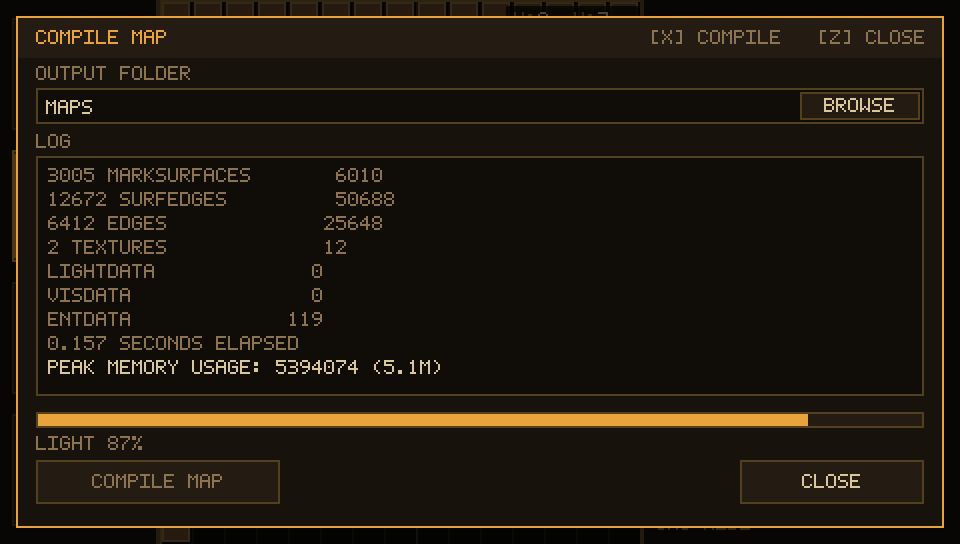
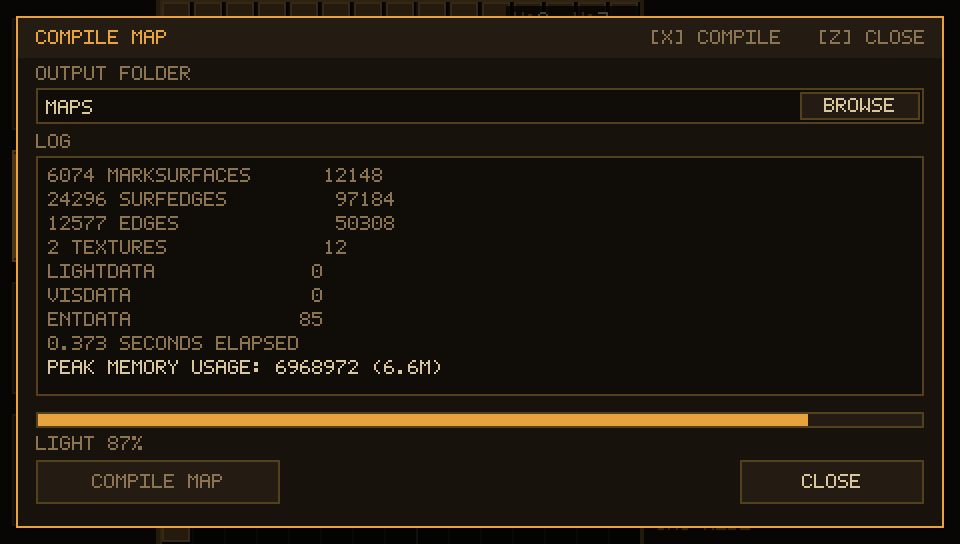
Worldspawn minlight instead of a spawned light, and a clean MSVC build
Default lighting now comes from a "light" key on worldspawn (200, written by
the exporter) instead of an invented light entity, so the light tool picks it
up as minlight and the map is never black. The exporter only reports light
entities the user actually placed.

Visual Studio 2022 build fixes (all fatal errors in the pasted log):
- qbsp.h Error() uses TYR_PRINTF_ATTR/TYR_NORETURN_ATTR, and min()/max()
  (plus qmin/qmax in common/cmdlib.h) fall back to plain macros for MSVC
  instead of typeof/statement expressions
- TYR_NOINLINE replaces the bare __attribute__((noinline)) in ltface.c (4x)
  and outside.c; ffsl gets a _BitScanForward shim; NOMINMAX before windows.h
- strcasecmp/strncasecmp map to _stricmp/_strnicmp, strupr/strlower stay out
  of the MSVC build, CopyLump initialises lumpspec (C4703 under /sdl)
- _CRT_NONSTDC_NO_WARNINGS for unlink, per-directory ObjectFileName for the
  three duplicate basenames (MSB8027)

light now sizes its lightdata lump from the faces (FaceLightmapSamples) and
skips the .lit area unless asked, instead of reserving 4 x MAX_MAP_LIGHTING;
also fixes an undersized RLE buffer in vis LeafFlow.

diff --git a/KablukMapperPortable/compile.c b/KablukMapperPortable/compile.c
@@ -225,10 +225,18 @@ static int next_run(const Grid *grid, CompileJob *job, int *x0, int *x1,
     while (job->cur_row < MAP_ROWS) {
         int y = job->cur_row;
         int x = job->cur_col;
+        const unsigned char *row;
         int start;
         int t;
 
-        while (x < MAP_COLS && grid->solid[y][x] == CELL_EMPTY) {
+        if (y < 0 || y >= MAP_ROWS) {
+            return 0;
+        }
+        row = grid->solid[y];
+        if (x < 0 || x > MAP_COLS) {
+            x = MAP_COLS;
+        }
+        while (x < MAP_COLS && row[x] == CELL_EMPTY) {
             x++;
         }
         if (x >= MAP_COLS) {
@@ -238,7 +246,7 @@ static int next_run(const Grid *grid, CompileJob *job, int *x0, int *x1,
         }
         start = x;
         t = cell_texture(grid, x, y);
-        while (x + 1 < MAP_COLS && grid->solid[y][x + 1] != CELL_EMPTY &&
+        while (x + 1 < MAP_COLS && row[x + 1] != CELL_EMPTY &&
                cell_texture(grid, x + 1, y) == t) {
             x++;
         }
@@ -487,6 +495,18 @@ void compile_step(CompileJob *job, const Grid *grid, const Fgd *fgd,
             write_text(job, "\"\n");
         }
         write_text(job, "\"message\" \"Kabluk map\"\n");
+        /* worldspawn "light" is the map-wide minimum light (minlight in the
+         * light tool), so a map is never black even without light entities */
+        len = 0;
+        len = cat_str(buf, len, "\"light\" \"");
+        len = cat_int(buf, len, DEFAULT_MINLIGHT);
+        cat_str(buf, len, "\"\n");
+        write_text(job, buf);
+        len = 0;
+        len = cat_str(buf, len, "WORLDSPAWN LIGHT: ");
+        len = cat_int(buf, len, DEFAULT_MINLIGHT);
+        cat_str(buf, len, " (MINLIGHT)");
+        compile_log_add(job, buf);
 
         /* floor and ceiling slabs covering the whole map */
         write_box(job, 0, 0, -SLAB_THICKNESS, MAP_COLS * BLOCK_UNITS,
@@ -569,23 +589,12 @@ void compile_step(CompileJob *job, const Grid *grid, const Fgd *fgd,
                 written++;
             }
         }
-        /* light needs at least one light source, otherwise the map is black */
-        if (job->light_entities == 0) {
-            if (written > 0) {
-                len = 0;
-                len = cat_str(buf, len, "// entity ");
-                len = cat_int(buf, len, written + 1);
-                cat_str(buf, len, "\n{\n\"classname\" \"light\"\n");
-            } else {
-                len = 0;
-                len = cat_str(buf, len, "\n// entity 1\n{\n\"classname\" \"light\"\n");
-            }
-            write_text(job, buf);
-            sprintf(buf, "\"origin\" \"%d %d 64\"\n}\n",
-                    MAP_COLS * BLOCK_UNITS / 2, MAP_ROWS * BLOCK_UNITS / 2);
-            write_text(job, buf);
-            written++;
-            compile_log_add(job, "NO LIGHT ENTITY: ADDED A DEFAULT LIGHT");
+        if (job->light_entities > 0) {
+            len = 0;
+            len = cat_str(buf, len, "LIGHT ENTITIES: ");
+            len = cat_int(buf, len, job->light_entities);
+            cat_str(buf, len, " (ON TOP OF MINLIGHT)");
+            compile_log_add(job, buf);
         }
 
         job->entity_done = written;

diff --git a/KablukMapperPortable/compile.h b/KablukMapperPortable/compile.h
@@ -28,6 +28,9 @@
 #define COMPILE_LOG_LINES 80
 #define COMPILE_LOG_LEN 80
 
+/* map-wide minimum light written into worldspawn ("light" key, minlight) */
+#define DEFAULT_MINLIGHT 200
+
 #define COMPILE_IDLE 0
 #define COMPILE_RUNNING 1
 #define COMPILE_DONE 2

diff --git a/docs/compile-chain.md b/docs/compile-chain.md
@@ -29,7 +29,7 @@ over to `bspchain.c`, which calls one tool per frame:
 | 2 | floor and ceiling slabs | 15 % |
 | 3 | open the `.map`, write worldspawn and both slabs | 20 % |
 | 4 | merge solid cells into brushes, write them (64 per frame) | 20–80 % |
-| 5 | point entities, plus a default `light` if the map has none | 80 % |
+| 5 | point entities; worldspawn gets its `light` key (default 200) | 80 % |
 | 6 | close the file, hand it to the chain | 82 % |
 | 7 | run `QBSP`, `LIGHT`, `VIS` — one tool per frame | 82–99 % |
 | 8 | report `BSP READY: <bytes>` | 100 % |
@@ -54,25 +54,47 @@ possible.
 
 | stage | peak RSS | time |
 | --- | --- | --- |
-| qbsp | 7.6 MB | 0.15 s |
-| light | +4 MB | 0.05 s |
-| vis | +12 MB | 0.05 s |
-| whole chain, first compile | 24 MB | ~0.3 s |
-| each further compile in the same session | +2.6 MB | — |
+| qbsp | 6.6 MB | 0.15 s |
+| light | 9.0 MB (with its lightmap lump) | 0.15 s |
+| vis | 11.0 MB | 0.05 s |
+| whole chain, first compile | 27 MB | ~0.4 s |
+| the `.bsp` it writes | 1.6 MB, of which 1.2 MB lightmaps | — |
 
-Memory comes from upstream's design (whole level in RAM, no freeing) and from
-`MAX_MAP_LIGHTING` (already reduced 16 MB -> 1 MB here). For the PSP the
-remaining work is: free the tools' pools between runs more aggressively, and
-run the chain in a worker thread so the editor keeps drawing while vis runs.
+The lightmap lump is the big one now: 6074 faces, ~200 lumels each. `light`
+sizes that buffer from the faces instead of reserving a fixed maximum (see
+`vendor/tyrutils/README.kabluk.md`, step 9), so the memory follows the map
+instead of a guess, and no `.lit` space is reserved unless `-lit` is asked for.
+
+Memory still grows with every compile in the same session (the tools keep
+their pools, upstream assumes one run per process). For the PSP the remaining
+work is: free the tools' pools between runs more aggressively, and run the
+chain in a worker thread so the editor keeps drawing while vis runs.
 
 ## A note on lighting
 
-Quake needs at least one light or the level is pitch black, so if the map has
-no `light` entity the exporter adds one in the middle of the map
-(`origin 4096 4096 64`, default brightness). The log says so:
+There is no light entity in the map. `worldspawn` carries the brightness
+instead:
 
 ```
-NO LIGHT ENTITY: ADDED A DEFAULT LIGHT
+"light" "200"
 ```
 
-State the brightness with the FGD property once you place your own light.
+`light` reads that key as the map wide **minlight**: every surface gets at
+least that much, so the level is visible everywhere without a single lamp.
+The log says so:
+
+```
+WORLDSPAWN LIGHT: 200 (MINLIGHT)
+```
+
+and the tool confirms it:
+
+```
+using minlight value 200 from worldspawn.
+1 entities read, 0 are lights.
+```
+
+The value lives in `compile.h` (`DEFAULT_MINLIGHT`); 200 is the usual "bright
+but still shaded" Quake minlight. Add your own `light` entities from the FGD
+when you want pools of real light on top of that floor — the exporter counts
+them (`LIGHT ENTITIES: n`) but never invents one.
